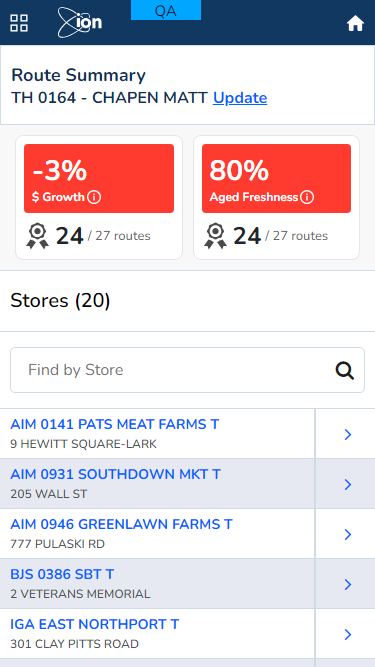
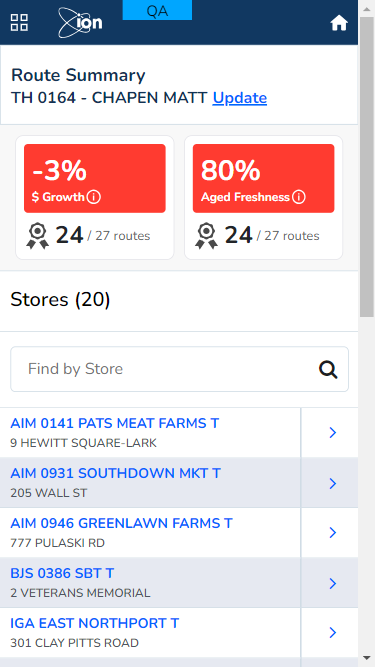
update route test steps file

diff --git a/src/test/Steps/Route.ts b/src/test/Steps/Route.ts
@@ -5,7 +5,9 @@ import {Page, chromium, Browser, expect} from '@playwright/test'
 import { pageFixture } from '../../hooks/pageFixture';
 
 When('click on store', async function () {
-     await pageFixture.page.getByText('AIM 0141 PATS MEAT FARMS T 9 HEWITT SQUARE-LARK' ).click();
+     //await pageFixture.page.getByText('AIM 0141 PATS MEAT FARMS T 9 HEWITT SQUARE-LARK' ).click();
+
+     await pageFixture.page.getByText("AIM 0141 PATS MEAT FARMS T").click();
   });
 
 

diff --git a/src/hooks/hooks.ts b/src/hooks/hooks.ts
@@ -11,7 +11,7 @@ let context: BrowserContext
 
 
 Before (async function () {
-    browser =await chromium.launch ({ headless : true})
+    browser =await chromium.launch ({ headless : false})
    page = await browser.newPage() ;
    pageFixture.page = page; 
     
